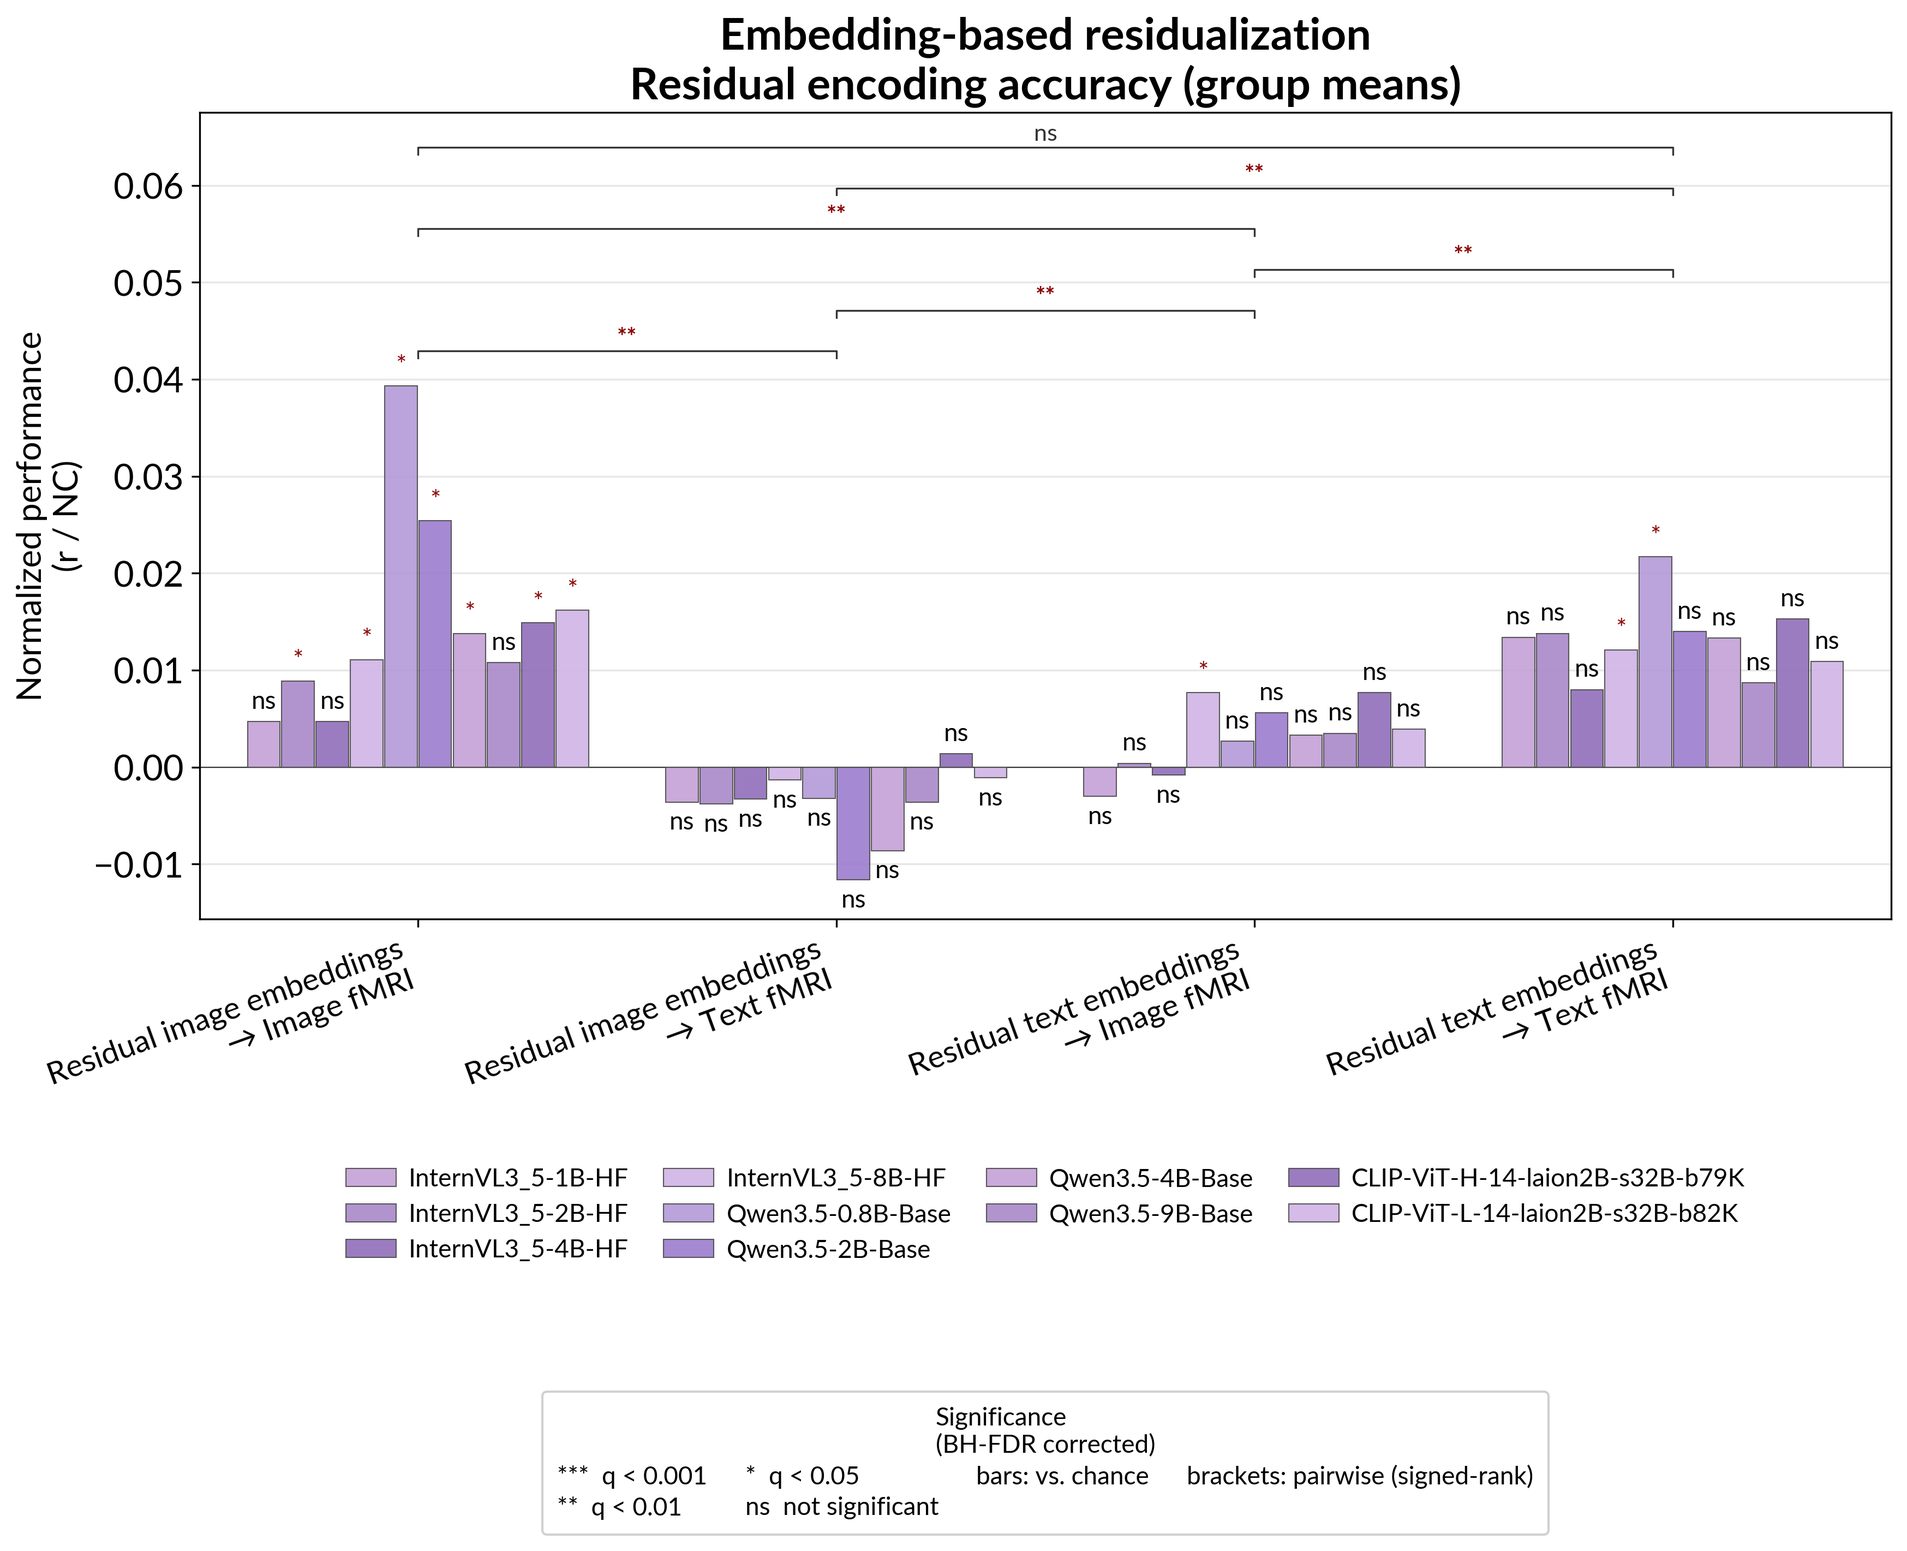
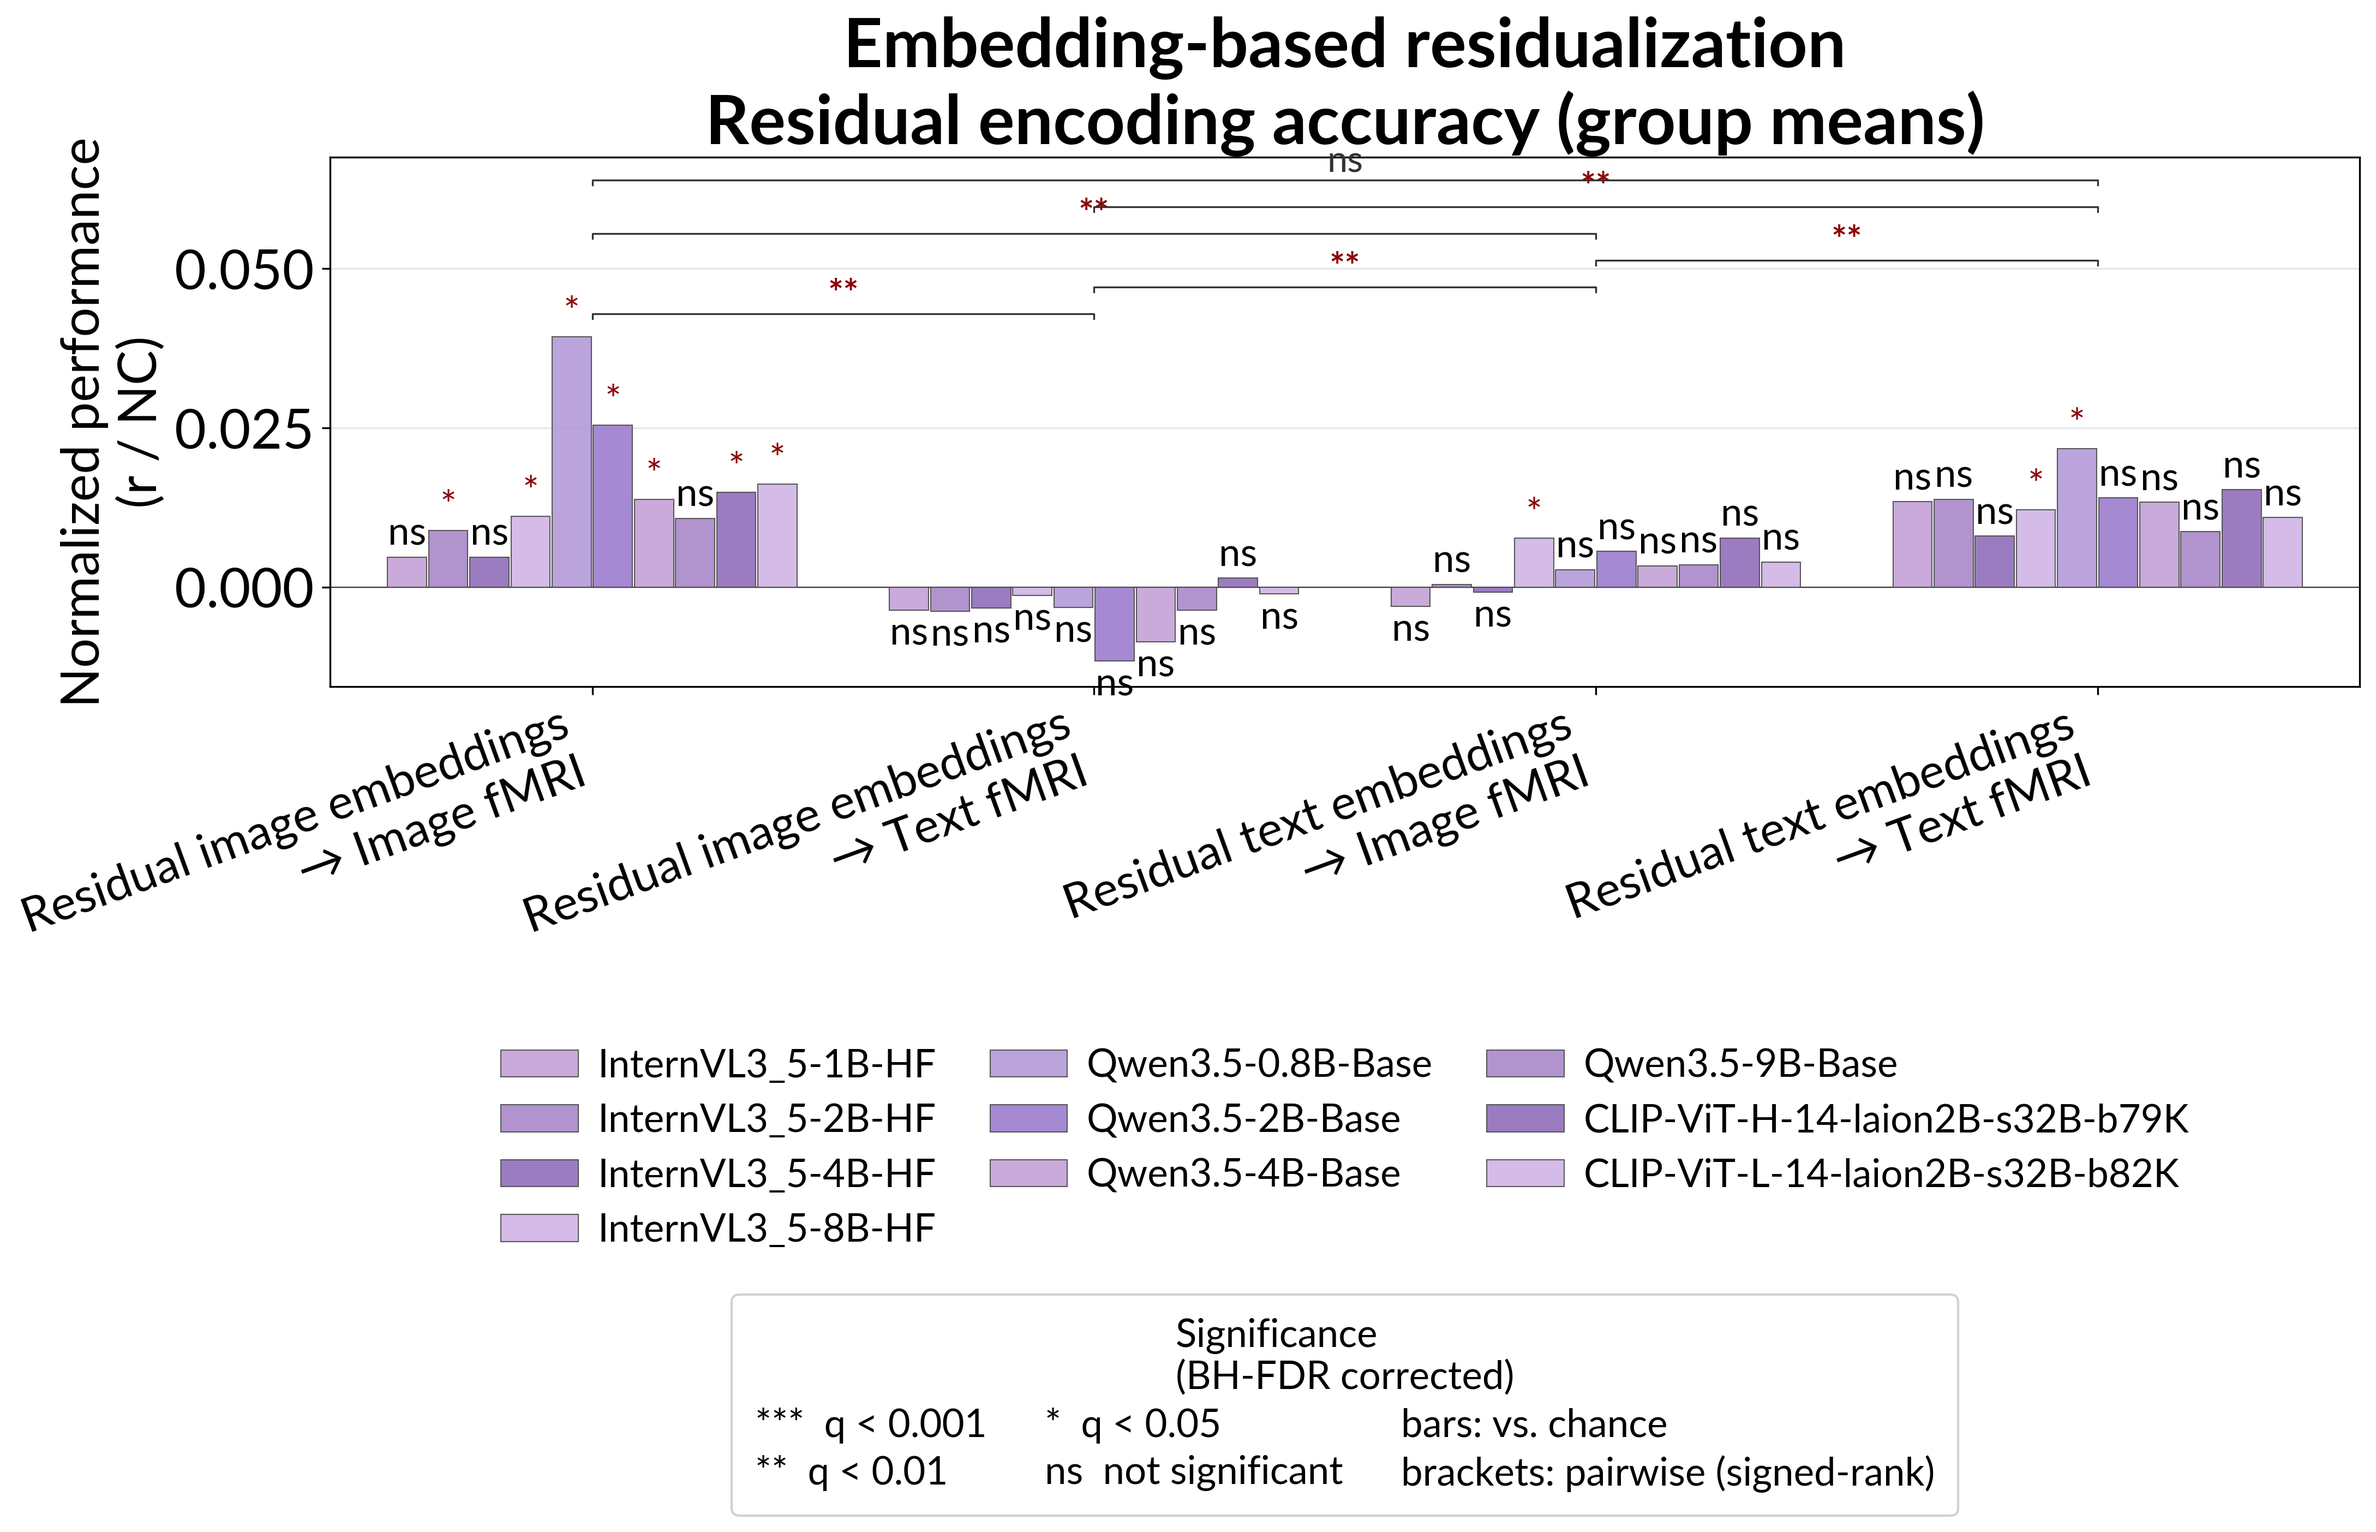
update visualizations

diff --git a/cross_modal_neural_encoding/visualization/visualize_encoding_results.py b/cross_modal_neural_encoding/visualization/visualize_encoding_results.py
@@ -1035,9 +1035,30 @@ def plot_grouped_model_means(
     )
     ax.axhline(y=0, color="black", linewidth=0.5, zorder=1)
     ax.grid(axis="y", alpha=0.3, zorder=0)
+
+    # Anchor the legends a fixed gap below the *actual* rendered x-tick labels
+    # (rotated, two lines) so they never overlap the condition labels, however
+    # short the figure gets. Fall back to a fixed offset if no renderer is ready.
+    try:
+        fig.canvas.draw()
+        renderer = fig.canvas.get_renderer()  # noqa
+        inv_axes = ax.transAxes.inverted()
+        label_bottom = min(
+            (
+                inv_axes.transform((0.0, lbl.get_window_extent(renderer=renderer).y0))[1]
+                for lbl in ax.get_xticklabels()
+            ),
+            default=-0.20,
+        )
+        model_legend_y = label_bottom - 0.05
+    except Exception:  # pragma: no cover - renderer unavailable
+        renderer = None
+        inv_axes = None
+        model_legend_y = -0.28
+
     model_legend = ax.legend(
         loc="upper center",
-        bbox_to_anchor=(0.5, -0.28),
+        bbox_to_anchor=(0.5, model_legend_y),
         fontsize=8.5 * font_scale,
         ncol=n_legend_cols,
         frameon=False,
@@ -1066,8 +1087,15 @@ def plot_grouped_model_means(
     # Place the significance key as a horizontal row below the model legend
     # (which sits below the axes), capped so neither legend exceeds the figure
     # width.
-    n_legend_rows = int(np.ceil(n_models / max(n_legend_cols, 1)))
-    sig_y = -0.28 - 0.08 * n_legend_rows - 0.05
+    # Stack the significance key just below the model legend, measured from its
+    # rendered extent so the gap is constant regardless of legend row count.
+    if renderer is not None and inv_axes is not None:
+        fig.canvas.draw()
+        leg_ext = model_legend.get_window_extent(renderer=renderer)
+        sig_y = inv_axes.transform((0.0, leg_ext.y0))[1] - 0.03
+    else:
+        n_legend_rows = int(np.ceil(n_models / max(n_legend_cols, 1)))
+        sig_y = model_legend_y - 0.08 * n_legend_rows - 0.05
     sig_ncol = _legend_ncol(sig_labels, fig_w, 8.5 * font_scale, len(sig_entries))
     sig_legend = ax.legend(
         sig_handles,

diff --git a/cross_modal_neural_encoding/visualization/visualize_residual_encoding.py b/cross_modal_neural_encoding/visualization/visualize_residual_encoding.py
@@ -421,15 +421,20 @@ def main(cfg: DictConfig) -> None:
     #    so widen the bars figure by ~1.13× the delta's width to land at the same
     #    rendered width.
     delta_w = max(8.0, 3.0 + 0.22 * len(model_results) * 4)
+    # Wider-and-flatter, larger-font variant so the figure stays readable when two
+    # panels are stacked at full text width. All three are tunable from the config.
+    bars_font_scale = float(cfg.get("bars_font_scale", 2.0))
+    bars_height = float(cfg.get("bars_height", 4.2))
+    bars_width_scale = float(cfg.get("bars_width_scale", 1.2))
     plot_grouped_model_means(
         model_results,
         metric=metric,
         alpha=0.05,
-        font_scale=1.3,
+        font_scale=bars_font_scale,
         compress_normalized_axis=False,
         normalized_axis_linthresh=0.08,
         output_path=output_dir / "residual_encoding_bars.png",
-        figsize=(1.13 * delta_w, 6.4),
+        figsize=(1.13 * delta_w * bars_width_scale, bars_height),
         y_limits=None,
         title=f"{title_prefix}\nResidual encoding accuracy (group means)",
         condition_labels=residual_labels,
